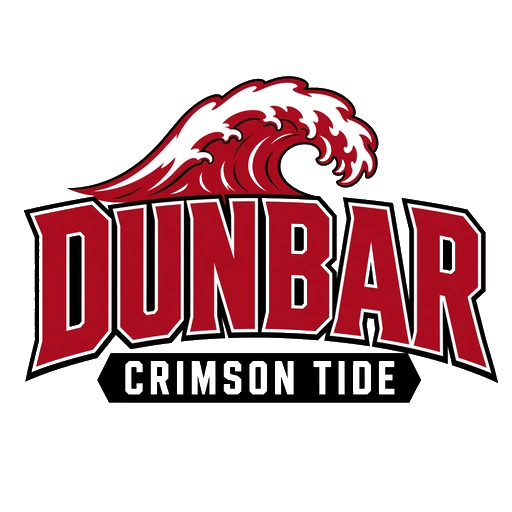
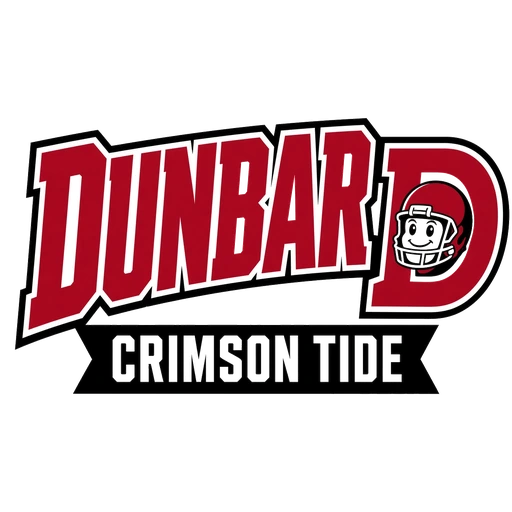
Replace Dunbar DC wave badge with official D + helmet-face mark
Matches the @dunbardcfootball crimson block D with the helmet mascot in the counter on both the team crest and score initials.

diff --git a/src/data/teamMascots.js b/src/data/teamMascots.js
@@ -154,8 +154,8 @@ export const teamMascots = {
   Coolidge: "/mascots/missing-teams/coolidge-colts-full.webp",
   "Coolidge High School": "/mascots/missing-teams/coolidge-colts-full.webp",
   "Calvin Coolidge": "/mascots/missing-teams/coolidge-colts-full.webp",
-  Dunbar: "/mascots/missing-teams/dunbar-crimson-tide-full.webp",
-  "Dunbar High School": "/mascots/missing-teams/dunbar-crimson-tide-full.webp",
+  Dunbar: "/mascots/missing-teams/dunbar-crimson-tide-full.webp?v=identity-sheet-2",
+  "Dunbar High School": "/mascots/missing-teams/dunbar-crimson-tide-full.webp?v=identity-sheet-2",
   "Dunbar (Baltimore)": "/mascots/missing-teams/dunbar-baltimore-poets-full.webp",
   "Dunbar (Balt)": "/mascots/missing-teams/dunbar-baltimore-poets-full.webp",
   "Baltimore Dunbar": "/mascots/missing-teams/dunbar-baltimore-poets-full.webp",
@@ -435,8 +435,8 @@ const scoreMascots = {
   Ballou: "/mascots/missing-teams/ballou-score-bk.webp",
   "Ballou High School": "/mascots/missing-teams/ballou-score-bk.webp",
   Bell: "/mascots/missing-teams/bell-score-b.webp",
-  Dunbar: "/mascots/missing-teams/dunbar-score-d.webp",
-  "Dunbar High School": "/mascots/missing-teams/dunbar-score-d.webp",
+  Dunbar: "/mascots/missing-teams/dunbar-score-d.webp?v=identity-sheet-2",
+  "Dunbar High School": "/mascots/missing-teams/dunbar-score-d.webp?v=identity-sheet-2",
   "Dunbar (Baltimore)": "/mascots/missing-teams/dunbar-baltimore-score-db.webp",
   "Dunbar (Balt)": "/mascots/missing-teams/dunbar-baltimore-score-db.webp",
   "Baltimore Dunbar": "/mascots/missing-teams/dunbar-baltimore-score-db.webp",
@@ -564,7 +564,7 @@ const standingsMascots = {
   Bell: "/mascots/standings/bell.png",
   Cardozo: "/mascots/standings/cardozo.png",
   Coolidge: "/mascots/standings/coolidge.png",
-  Dunbar: "/mascots/standings/dunbar.png",
+  Dunbar: "/mascots/missing-teams/dunbar-score-d.webp?v=identity-sheet-2",
   Eastern: "/mascots/standings/eastern.png",
   "H.D. Woodson": "/mascots/standings/hd-woodson.png",
   "Jackson-Reed": "/mascots/standings/jackson-reed.png",

diff --git a/src/scoreMarkRecovery.js b/src/scoreMarkRecovery.js
@@ -3,8 +3,8 @@ const SCORE_MARKS = new Map([
   ["Bullis School", "/mascots/missing-teams/bullis-score-b.webp?v=identity-sheet-1"],
   ["Ballou", "/mascots/missing-teams/ballou-score-bk.webp?v=identity-sheet-1"],
   ["Ballou High School", "/mascots/missing-teams/ballou-score-bk.webp?v=identity-sheet-1"],
-  ["Dunbar", "/mascots/missing-teams/dunbar-score-d.webp?v=identity-sheet-1"],
-  ["Dunbar High School", "/mascots/missing-teams/dunbar-score-d.webp?v=identity-sheet-1"],
+  ["Dunbar", "/mascots/missing-teams/dunbar-score-d.webp?v=identity-sheet-2"],
+  ["Dunbar High School", "/mascots/missing-teams/dunbar-score-d.webp?v=identity-sheet-2"],
   ["Mt. Zion", "/mascots/missing-teams/mt-zion-score-mzp.webp?v=identity-sheet-1"],
   ["Mt. Zion Prep", "/mascots/missing-teams/mt-zion-score-mzp.webp?v=identity-sheet-1"],
   ["Mt. Zion Prep Academy", "/mascots/missing-teams/mt-zion-score-mzp.webp?v=identity-sheet-1"],

diff --git a/src/components/ShareScoreLogo.jsx b/src/components/ShareScoreLogo.jsx
@@ -7,8 +7,8 @@ const SCORE_ART = {
   "Bullis School": "/mascots/missing-teams/bullis-score-b.webp",
   Ballou: "/mascots/missing-teams/ballou-score-bk.webp",
   "Ballou High School": "/mascots/missing-teams/ballou-score-bk.webp",
-  Dunbar: "/mascots/missing-teams/dunbar-score-d.webp",
-  "Dunbar High School": "/mascots/missing-teams/dunbar-score-d.webp",
+  Dunbar: "/mascots/missing-teams/dunbar-score-d.webp?v=identity-sheet-2",
+  "Dunbar High School": "/mascots/missing-teams/dunbar-score-d.webp?v=identity-sheet-2",
   "Dunbar (Baltimore)": "/mascots/missing-teams/dunbar-baltimore-score-db.webp",
   "Dunbar (Balt)": "/mascots/missing-teams/dunbar-baltimore-score-db.webp",
   "Mt. Zion": "/mascots/missing-teams/mt-zion-score-mzp.webp",
